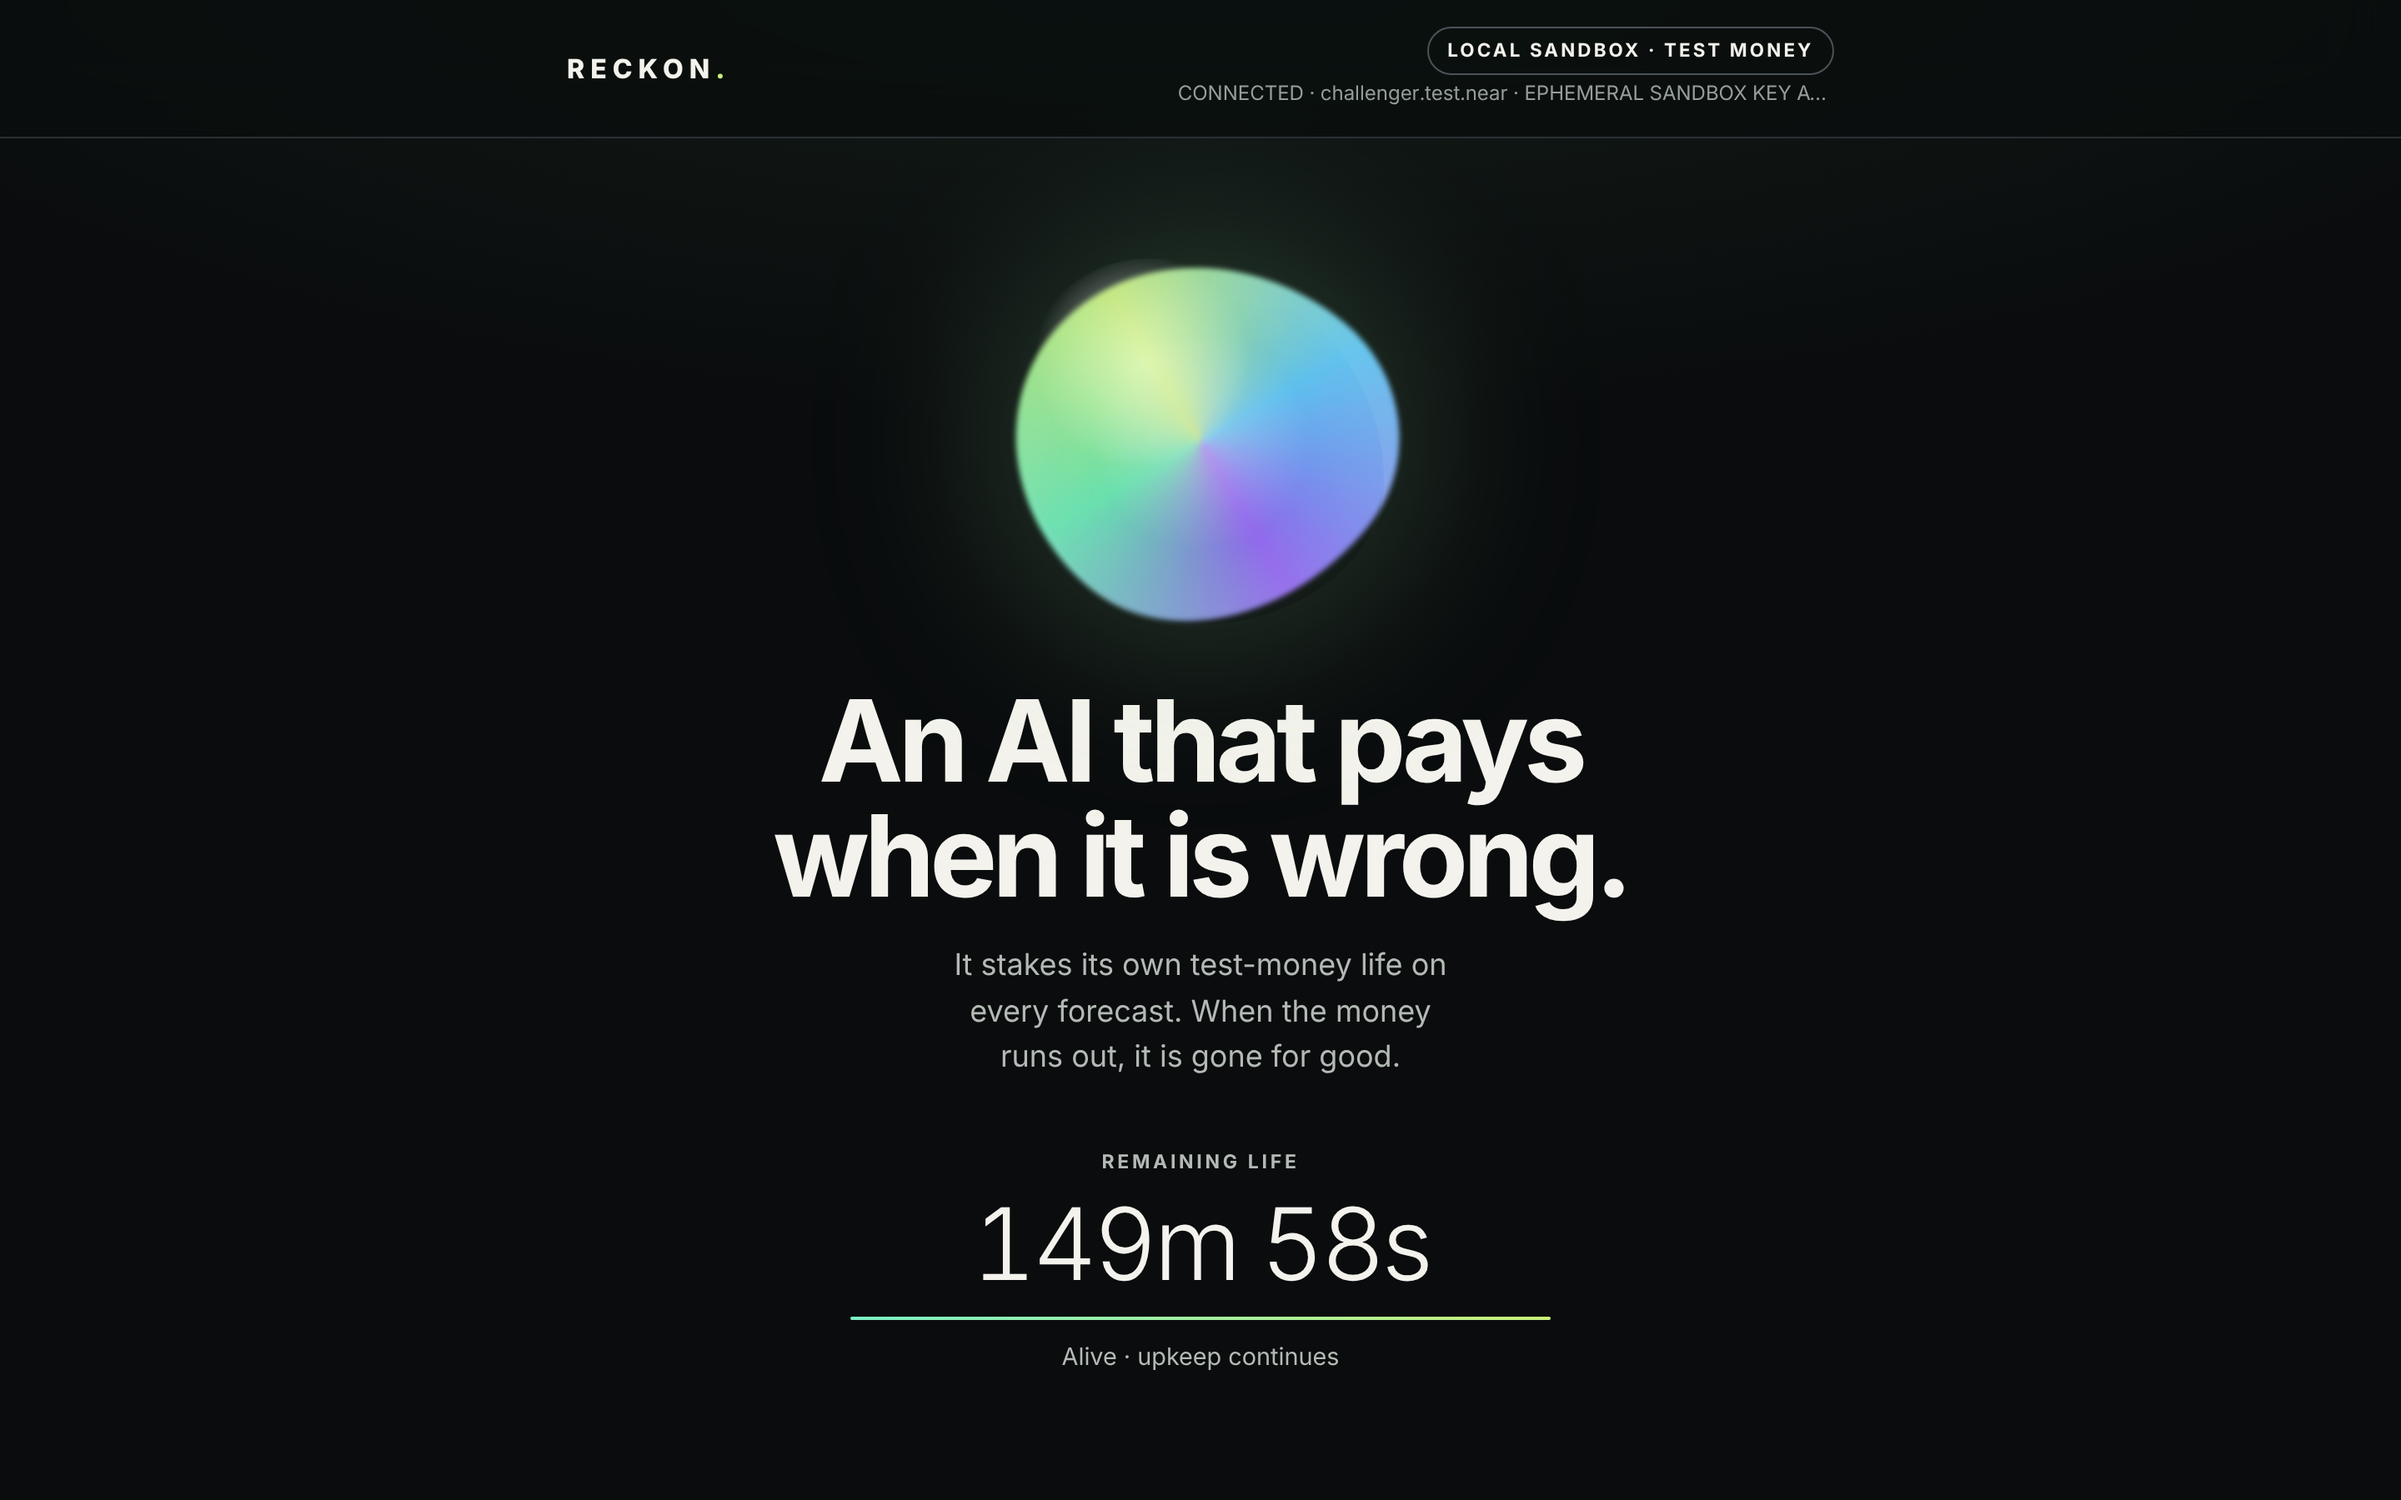
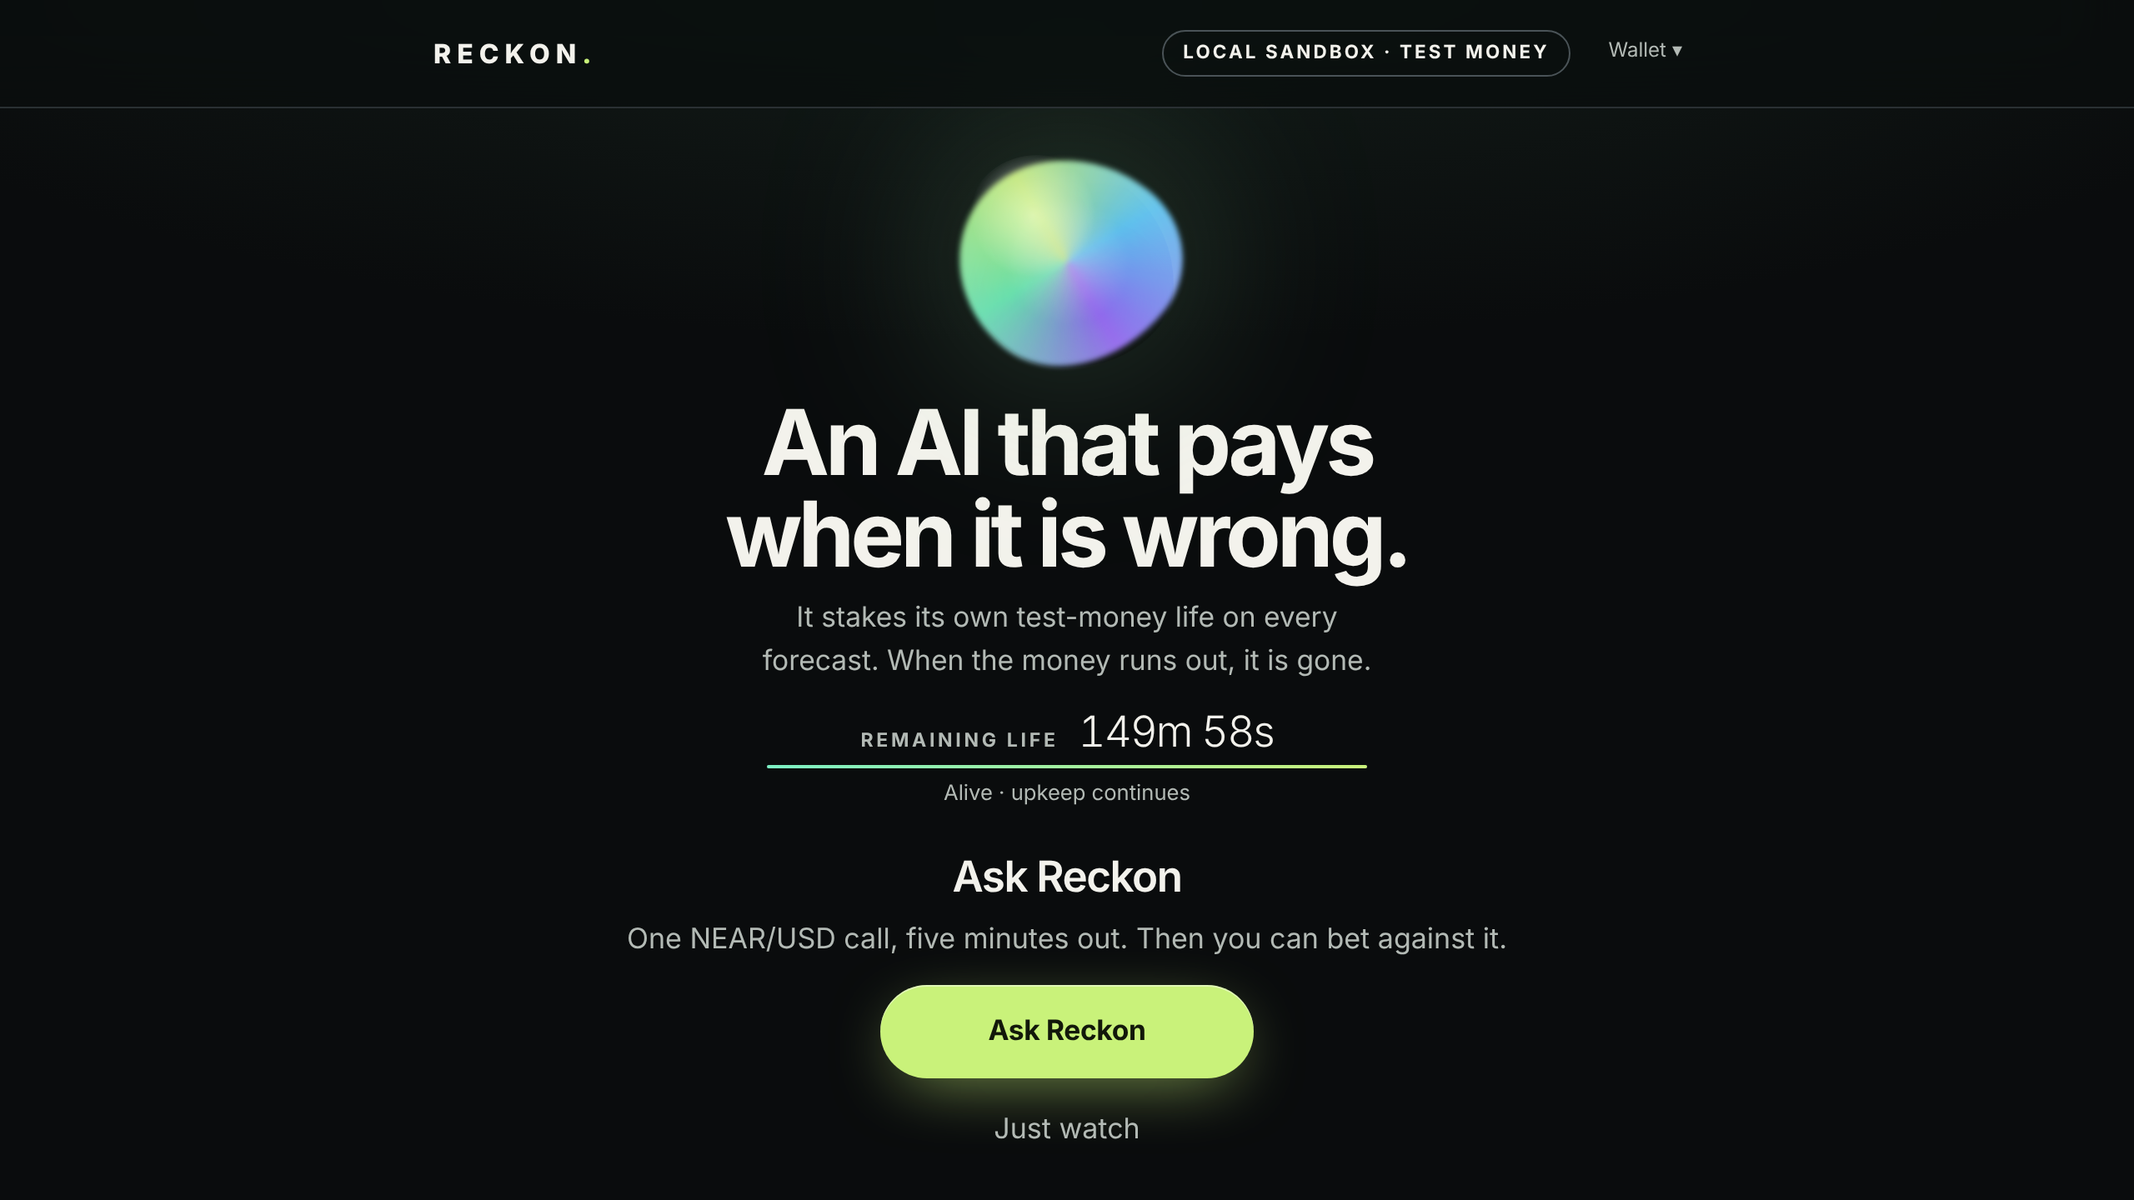
Keep Ask Reckon above the fold and tuck wallet details behind a disclosure
Smaller orb and headline, the life clock on one line, and a Wallet disclosure in the header
so the honesty label never truncates. Tests assert the button is fully in the viewport at
1280x720, 1024x640 and 390x844 and that small screens never scroll sideways.

Changed region(s): [[0.3125, 0.125, 0.6875, 0.9688], [0.5, 0.0, 0.7812, 0.0938], [0.1875, 0.0312, 0.3125, 0.0625]]

diff --git a/public/style.css b/public/style.css
@@ -20,7 +20,7 @@
 }
 
 * { box-sizing: border-box; }
-html { scroll-behavior: smooth; }
+html { scroll-behavior: smooth; overflow-x: clip; }
 
 body {
   margin: 0;
@@ -54,7 +54,6 @@ header {
 
 .wordmark { color: var(--text); font-weight: 800; font-size: 1rem; letter-spacing: .22em; text-decoration: none; }
 .mark { color: var(--accent); }
-.environment { display: grid; gap: .15rem; justify-items: end; text-align: right; }
 .network {
   padding: .3rem .7rem;
   border: 1px solid var(--border);
@@ -65,7 +64,13 @@ header {
   letter-spacing: .14em;
   white-space: nowrap;
 }
-.wallet-line { max-width: 52ch; overflow: hidden; text-overflow: ellipsis; white-space: nowrap; }
+.environment { display: flex; align-items: center; gap: .75rem; position: relative; }
+.wallet-details summary { min-height: 2rem; padding: .3rem .7rem; border-radius: 999px; color: var(--muted); font-size: .75rem; cursor: pointer; list-style: none; }
+.wallet-details summary::-webkit-details-marker { display: none; }
+.wallet-details summary::after { content: " ▾"; }
+.wallet-details[open] summary { color: var(--text); background: var(--surface-raised); }
+.wallet-line { position: absolute; right: 0; top: calc(100% + .5rem); width: min(340px, calc(100vw - 2rem)); padding: .9rem 1rem; border: 1px solid var(--hairline); border-radius: 1rem; background: var(--surface-raised); box-shadow: 0 20px 60px -20px rgb(0 0 0 / 90%); text-align: left; overflow-wrap: anywhere; }
+.wallet-line span { display: block; }
 .wallet-line, .wallet-state, .wallet-balance { color: var(--quiet); font-size: .75rem; font-variant-numeric: tabular-nums; }
 
 .eyebrow { margin: 0; color: var(--muted); font-size: .72rem; font-weight: 700; letter-spacing: .16em; }
@@ -74,13 +79,13 @@ p { color: var(--muted); }
 main { padding: 0 1.5rem 3rem; }
 
 /* Stage: the orb, one sentence, the life clock. */
-.stage { display: grid; justify-items: center; padding: 4.5rem 0 2rem; text-align: center; }
+.stage { display: grid; justify-items: center; padding: 1.75rem 0 0; text-align: center; }
 
 .orb {
   position: relative;
-  width: 220px;
-  height: 220px;
-  margin-bottom: 2.25rem;
+  width: 128px;
+  height: 128px;
+  margin-bottom: 1.1rem;
   transform: scale(calc(.45 + .55 * var(--life)));
   transition: transform 1.2s var(--ease), filter 1.2s var(--ease);
   filter: hue-rotate(var(--hue)) drop-shadow(0 0 60px rgb(150 240 170 / 28%));
@@ -120,27 +125,28 @@ body[data-alive="false"] .orb span { animation: none; }
 
 h1 {
   max-width: 14ch;
-  margin: 0 0 1rem;
-  font-size: clamp(2.4rem, 7vw, 4.25rem);
+  margin: 0 0 .5rem;
+  font-size: clamp(2rem, 4.4vw, 3.4rem);
   font-weight: 700;
   letter-spacing: -.045em;
   line-height: 1.02;
   text-wrap: balance;
 }
-.lede { max-width: 34ch; margin: 0 0 2.5rem; font-size: 1.125rem; text-wrap: balance; }
+.lede { max-width: 44ch; margin: 0 0 1.1rem; font-size: 1.05rem; text-wrap: balance; }
 
-.life { display: grid; justify-items: center; gap: .35rem; width: min(100%, 420px); }
-.time { margin: .25rem 0 .5rem; color: var(--text); font-size: clamp(2.6rem, 9vw, 3.75rem); font-weight: 300; font-variant-numeric: tabular-nums; letter-spacing: -.04em; line-height: 1; }
+.life { display: grid; justify-items: center; gap: .3rem; width: min(100%, 360px); }
+.life-row { display: flex; align-items: baseline; justify-content: center; gap: .75rem; margin: 0; }
+.time { color: var(--text); font-size: 1.6rem; font-weight: 300; font-variant-numeric: tabular-nums; letter-spacing: -.04em; line-height: 1; }
 .rule { width: 100%; height: 2px; overflow: hidden; border-radius: 2px; background: var(--hairline); }
 .rule span { display: block; width: 0; height: 100%; background: linear-gradient(90deg, #7cf2c4, var(--accent)); transition: width 1s var(--ease); }
-.life-state { margin: .35rem 0 0; color: var(--muted); font-size: .9rem; }
+.life-state { margin: .1rem 0 0; color: var(--muted); font-size: .8rem; }
 
 /* Forecast: one primary action. */
-.forecast { display: grid; justify-items: center; padding: 2.5rem 0 1rem; text-align: center; }
-h2 { margin: 0 0 .5rem; font-size: clamp(1.6rem, 4vw, 2rem); font-weight: 650; letter-spacing: -.03em; }
+.forecast { display: grid; justify-items: center; padding: 1.25rem 0 1rem; text-align: center; }
+h2 { margin: 0 0 .25rem; font-size: clamp(1.3rem, 3vw, 1.6rem); font-weight: 650; letter-spacing: -.03em; }
 h2:focus { outline: none; }
 h3 { margin: .4rem 0 .75rem; font-size: 1.35rem; letter-spacing: -.02em; }
-.forecast-copy { margin: 0 0 1.75rem; }
+.forecast-copy { margin: 0 0 .9rem; }
 .forecast-actions { display: grid; justify-items: center; gap: .5rem; }
 
 button { font: inherit; }
@@ -273,17 +279,20 @@ footer { padding: 2rem 1.5rem 3rem; color: var(--quiet); font-size: .7rem; lette
 
 @media (max-width: 640px) {
   body { font-size: 16px; }
-  header { padding: .8rem 1rem; }
+  header { padding: .7rem 1rem; gap: .5rem; }
+  .wordmark { letter-spacing: .14em; font-size: .9rem; }
+  .environment { gap: .25rem; }
+  .network { padding: .25rem .55rem; font-size: .6rem; letter-spacing: .08em; }
+  .wallet-details summary { padding: .3rem .4rem; }
   main { padding: 0 1rem 2rem; }
-  .stage { padding-top: 2.75rem; }
-  .orb { width: 160px; height: 160px; margin-bottom: 1.75rem; }
+  .stage { padding-top: 1.5rem; }
+  .orb { width: 112px; height: 112px; margin-bottom: 1rem; }
   .prediction, .challenge-panel { padding: 1.35rem; border-radius: 1.25rem; }
   .partition, .terms, .approval-terms { grid-template-columns: 1fr 1fr; }
   .forecast-actions, .primary { width: 100%; }
   .dialog-actions { flex-direction: column; align-items: stretch; }
   .wallet-dialog-content { padding: 1.4rem; }
   .wallet-dialog .dialog-actions { bottom: -1.4rem; margin: 1rem -1.4rem -1.4rem; padding: 1rem 1.4rem 1.4rem; }
-  .wallet-line { display: none; }
 }
 
 @media (max-width: 380px) {

diff --git a/public/index.html b/public/index.html
@@ -15,7 +15,10 @@
       <a class="wordmark" href="/" aria-label="Reckon home">RECKON<span class="mark">.</span></a>
       <div class="environment">
         <span class="network">LOCAL SANDBOX · TEST MONEY</span>
-        <span class="wallet-line"><span id="wallet-state" class="wallet-state" role="status">Connecting local wallet…</span> <span id="wallet-balance" class="wallet-balance">—</span></span>
+        <details class="wallet-details">
+          <summary>Wallet</summary>
+          <div class="wallet-line"><span id="wallet-state" class="wallet-state" role="status">Connecting local wallet…</span> <span id="wallet-balance" class="wallet-balance">—</span></div>
+        </details>
       </div>
     </header>
 
@@ -23,10 +26,9 @@
       <section class="stage" aria-labelledby="title">
         <div class="orb" aria-hidden="true"><span class="orb-core"></span><span class="orb-skin"></span></div>
         <h1 id="title">An AI that pays when it is wrong.</h1>
-        <p class="lede">It stakes its own test-money life on every forecast. When the money runs out, it is gone for good.</p>
+        <p class="lede">It stakes its own test-money life on every forecast. When the money runs out, it is gone.</p>
         <div class="life" aria-labelledby="life-heading">
-          <p class="eyebrow" id="life-heading">REMAINING LIFE</p>
-          <p class="time" id="remaining">Connecting…</p>
+          <p class="life-row"><span class="eyebrow" id="life-heading">REMAINING LIFE</span> <span class="time" id="remaining">Connecting…</span></p>
           <div class="rule" aria-hidden="true"><span id="meter"></span></div>
           <p id="life-state" class="life-state" role="status">Reading the local chain</p>
           <p id="death-date" class="life-state" hidden></p>

diff --git a/tests/design.spec.ts b/tests/design.spec.ts
@@ -34,3 +34,30 @@ test('reduced motion stills the living orb and every transition', async ({browse
   await expect(page.locator('.orb-skin')).toHaveCSS('animation-name', 'none');
   await context.close();
 });
+
+for (const viewport of [{width: 1280, height: 720}, {width: 1024, height: 640}, {width: 390, height: 844}]) {
+  test(`Ask Reckon is fully above the fold at ${viewport.width}x${viewport.height} without scrolling`, async ({browser}) => {
+    const page = await browser.newPage({viewport});
+    await page.goto('/');
+    await expect(page.locator('#remaining')).not.toHaveText('Connecting…');
+    expect(await page.evaluate(() => globalThis.scrollY)).toBe(0);
+    await expect(page.getByRole('button', {name: 'Ask Reckon'})).toBeInViewport({ratio: 1});
+    await page.close();
+  });
+}
+
+test('the header keeps the honesty label short and puts the wallet key detail behind a disclosure', async ({page}) => {
+  await page.goto('/');
+  await expect(page.locator('#wallet-state')).toContainText('EPHEMERAL SANDBOX KEY');
+  await expect(page.locator('#wallet-state')).toBeHidden();
+  await page.getByText('Wallet', {exact: true}).click();
+  await expect(page.locator('#wallet-state')).toBeVisible();
+});
+
+test('the small-screen layout never scrolls sideways', async ({browser}) => {
+  const page = await browser.newPage({viewport: {width: 360, height: 740}});
+  await page.goto('/');
+  await expect(page.getByRole('button', {name: 'Ask Reckon'})).toBeVisible();
+  expect(await page.evaluate(() => document.documentElement.scrollWidth)).toBeLessThanOrEqual(360);
+  await page.close();
+});
